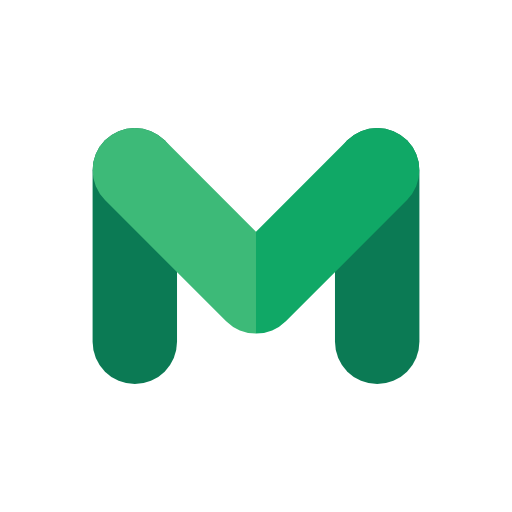
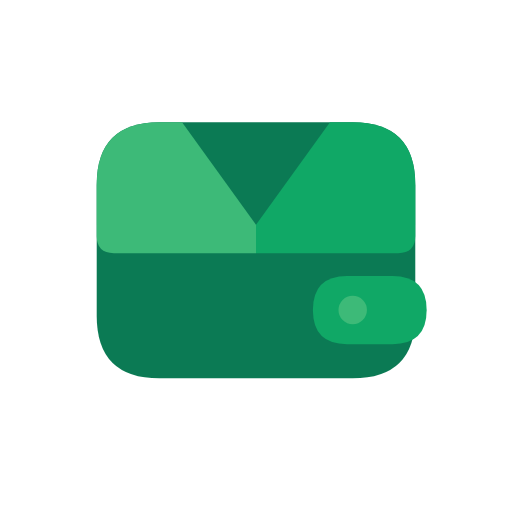
Movo mark: wallet with an M-shaped flap
Replaces the folded-ribbon M (too close to other well-known M marks) with an
original wallet: rounded body, a V-notched flap whose light and mid halves
form the M, and a clasp. Same three flat greens; updated in the app,
loading screen, favicon and app icons.

Claude-Session: https://claude.ai/code/session_01CZKR1U91PpmWmRtRk76FMr

Changed region(s): [[0.1562, 0.2188, 0.8438, 0.75]]

diff --git a/public/index.html b/public/index.html
@@ -16,22 +16,22 @@
       /* Loading screen, shown before the app's JavaScript runs. The mark shifts slowly between its colourways. */
       #movo-splash { position: fixed; inset: 0; z-index: 1000; display: grid; place-content: center; justify-items: center; gap: 6px; background: #f5f5f8; font-family: 'Inter', -apple-system, BlinkMacSystemFont, 'Segoe UI', sans-serif; transition: opacity .35s ease-out; }
       #movo-splash.leaving { opacity: 0; pointer-events: none; }
-      #movo-splash svg { width: 92px; height: 72px; margin-bottom: 12px; }
+      #movo-splash svg { width: 92px; height: 80px; margin-bottom: 12px; }
       #movo-splash .w { font-size: 30px; font-weight: 700; letter-spacing: -.5px; color: #0d1b2a; }
       #movo-splash .s { font-size: 13px; letter-spacing: .14em; color: #5b6472; }
       #movo-splash .d { fill: #0b7a54; animation: mv-d 4.8s ease-in-out infinite; }
-      #movo-splash .l { stroke: #3dba78; animation: mv-l 4.8s ease-in-out infinite; }
-      #movo-splash .m { stroke: #10a866; animation: mv-m 4.8s ease-in-out infinite; }
+      #movo-splash .l { fill: #3dba78; animation: mv-l 4.8s ease-in-out infinite; }
+      #movo-splash .m { fill: #10a866; animation: mv-m 4.8s ease-in-out infinite; }
       @keyframes mv-d { 0%, 30%, 100% { fill: #0b7a54; } 50%, 80% { fill: #2b2b2e; } }
-      @keyframes mv-l { 0%, 30%, 100% { stroke: #3dba78; } 50%, 80% { stroke: #8a8a8a; } }
-      @keyframes mv-m { 0%, 30%, 100% { stroke: #10a866; } 50%, 80% { stroke: #555559; } }
+      @keyframes mv-l { 0%, 30%, 100% { fill: #3dba78; } 50%, 80% { fill: #8a8a8a; } }
+      @keyframes mv-m { 0%, 30%, 100% { fill: #10a866; } 50%, 80% { fill: #555559; } }
       @media (prefers-color-scheme: dark) {
         #movo-splash { background: #0f0f0f; }
         #movo-splash .w { color: #fff; }
         #movo-splash .s { color: #8e8e93; }
         @keyframes mv-d { 0%, 30%, 100% { fill: #0b7a54; } 50%, 80% { fill: #d4d4d8; } }
-        @keyframes mv-l { 0%, 30%, 100% { stroke: #3dba78; } 50%, 80% { stroke: #ffffff; } }
-        @keyframes mv-m { 0%, 30%, 100% { stroke: #10a866; } 50%, 80% { stroke: #e9e9ec; } }
+        @keyframes mv-l { 0%, 30%, 100% { fill: #3dba78; } 50%, 80% { fill: #ffffff; } }
+        @keyframes mv-m { 0%, 30%, 100% { fill: #10a866; } 50%, 80% { fill: #e9e9ec; } }
       }
       @media (prefers-reduced-motion: reduce) { #movo-splash .d, #movo-splash .l, #movo-splash .m { animation: none; } #movo-splash { transition: none; } }
     </style>
@@ -39,7 +39,7 @@
   <body>
     <noscript>You need to enable JavaScript to run Movo.</noscript>
     <div id="movo-splash" role="status" aria-label="Loading Movo">
-      <svg viewBox="0 0 120 94" aria-hidden="true"><defs><clipPath id="sl"><rect width="60" height="94"/></clipPath><clipPath id="sr"><rect x="60" width="60" height="94"/></clipPath></defs><rect class="d" width="31" height="94" rx="15.5"/><rect class="d" x="89" width="31" height="94" rx="15.5"/><line class="l" x1="15.5" y1="15.5" x2="60" y2="60" stroke-width="31" stroke-linecap="round" clip-path="url(#sl)"/><line class="m" x1="104.5" y1="15.5" x2="60" y2="60" stroke-width="31" stroke-linecap="round" clip-path="url(#sr)"/></svg>
+      <svg viewBox="0 0 120 104" aria-hidden="true"><path class="d" d="M26 10H94Q116 10 116 32V78Q116 100 94 100H26Q4 100 4 78V32Q4 10 26 10Z"/><path class="l" d="M4 32Q4 10 26 10H34L60 46V56H10Q4 56 4 50Z"/><path class="m" d="M60 46L86 10H94Q116 10 116 32V50Q116 56 110 56H60Z"/><path class="m" d="M92 64H108Q120 64 120 76Q120 88 108 88H92Q80 88 80 76Q80 64 92 64Z"/><circle class="l" cx="94" cy="76" r="5"/></svg>
       <span class="w">Movo</span>
       <span class="s">FINANCIAL TRACKER</span>
     </div>

diff --git a/src/components/MovoLogo.js b/src/components/MovoLogo.js
@@ -1,23 +1,28 @@
 import React from 'react';
 
-/* The MOVO "M": two rounded legs and a folded ribbon, in three flat tones (no gradients). */
+/* The MOVO mark: a wallet whose V-notched flap forms an "M", in three flat tones (no gradients). */
 export const LOGO_TONES = {
   color: { light: '#3dba78', mid: '#10a866', dark: '#0b7a54' },
   mono: { light: '#8a8a8a', mid: '#555559', dark: '#2b2b2e' },
   white: { light: '#ffffff', mid: '#e9e9ec', dark: '#d4d4d8' },
 };
 
+export const MARK_VIEWBOX = '0 0 120 104';
+/* Wallet body (dark), a V-notched flap whose two halves form the "M" (light | mid), and a clasp (mid + light dot). */
+export const MARK_PATHS = {
+  body: 'M26 10H94Q116 10 116 32V78Q116 100 94 100H26Q4 100 4 78V32Q4 10 26 10Z',
+  flapLeft: 'M4 32Q4 10 26 10H34L60 46V56H10Q4 56 4 50Z',
+  flapRight: 'M60 46L86 10H94Q116 10 116 32V50Q116 56 110 56H60Z',
+  clasp: 'M92 64H108Q120 64 120 76Q120 88 108 88H92Q80 88 80 76Q80 64 92 64Z',
+};
+
 export function MovoMark({ size = 40, tone = 'color', className = '', title }) {
   const t = LOGO_TONES[tone] || LOGO_TONES.color;
-  const id = React.useId().replace(/:/g, '');
-  return <svg className={`movo-mark ${className}`.trim()} width={size} height={size * 0.78} viewBox="0 0 120 94" role={title ? 'img' : undefined} aria-label={title} aria-hidden={title ? undefined : true}>
-    <defs>
-      <clipPath id={`l${id}`}><rect x="0" y="0" width="60" height="94" /></clipPath>
-      <clipPath id={`r${id}`}><rect x="60" y="0" width="60" height="94" /></clipPath>
-    </defs>
-    <rect className="mm-dark" x="0" y="0" width="31" height="94" rx="15.5" fill={t.dark} />
-    <rect className="mm-dark" x="89" y="0" width="31" height="94" rx="15.5" fill={t.dark} />
-    <line className="mm-light" x1="15.5" y1="15.5" x2="60" y2="60" stroke={t.light} strokeWidth="31" strokeLinecap="round" clipPath={`url(#l${id})`} />
-    <line className="mm-mid" x1="104.5" y1="15.5" x2="60" y2="60" stroke={t.mid} strokeWidth="31" strokeLinecap="round" clipPath={`url(#r${id})`} />
+  return <svg className={`movo-mark ${className}`.trim()} width={size} height={Math.round(size * 104 / 120)} viewBox={MARK_VIEWBOX} role={title ? 'img' : undefined} aria-label={title} aria-hidden={title ? undefined : true}>
+    <path className="mm-dark" d={MARK_PATHS.body} fill={t.dark} />
+    <path className="mm-light" d={MARK_PATHS.flapLeft} fill={t.light} />
+    <path className="mm-mid" d={MARK_PATHS.flapRight} fill={t.mid} />
+    <path className="mm-mid" d={MARK_PATHS.clasp} fill={t.mid} />
+    <circle className="mm-light" cx="94" cy="76" r="5" fill={t.light} />
   </svg>;
 }
